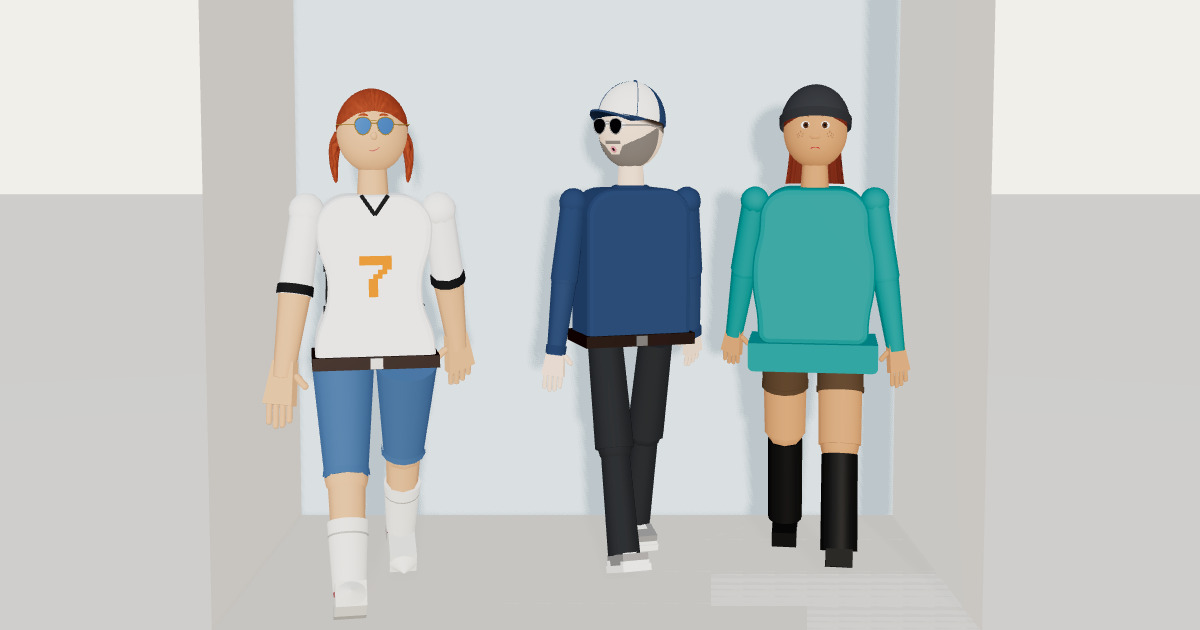
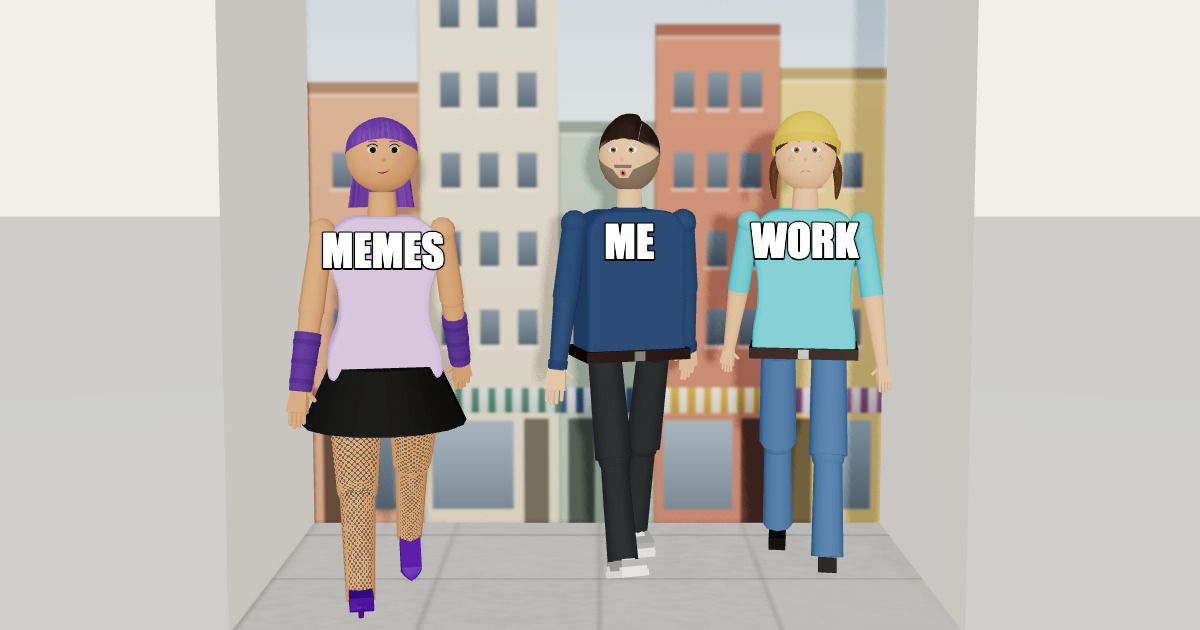
rc1

diff --git a/www/shared/js/promo-1.0.0.min.js b/www/shared/js/promo-1.0.0.min.js
@@ -1,1 +1,1 @@
-export const EXPERIENCES=Object.freeze([{slug:"meme",category:"worlds",title:"Meme Studio",line:"Put yourself in the meme",art:"/meme/assets/og-meme.webp?v=1"},{slug:"derby",category:"worlds",title:"Derby Day",line:"A wooden derby car race",art:"/derby/assets/og-derby.webp?v=1"},{slug:"leaves",category:"worlds",title:"Leaf Blower",line:"A leaf blower game in an autumn front yard",art:"/leaves/assets/og-leaves.webp?v=1"},{slug:"office",category:"worlds",title:"Corner Office",line:"A job search tracker in a 3D office",art:"/office/assets/og-office.webp?v=1"},{slug:"tornado",category:"worlds",title:"Tornado Alley",line:"A storm chaser's view of a tornado",art:"/tornado/assets/og-tornado.webp?v=1"},{slug:"xo",category:"worlds",title:"X's and O's",line:"A football game where you call the plays",art:"/xo/assets/og-xo.webp?v=1"},{slug:"garden",category:"worlds",title:"Fractal Garden",line:"A garden you plant and tend yourself",art:"/garden/assets/og-garden.webp?v=3"},{slug:"highwater",category:"worlds",title:"High Water",line:"A study of water and weather",art:"/highwater/assets/og-highwater.webp?v=1"},{slug:"earthdefense",category:"worlds",title:"Earth Defense",line:"Built for the joy of flying through space",art:"/earthdefense/assets/og-earthdefense.webp?v=2"},{slug:"mandelbrot",category:"worlds",title:"The Mandelbrot Set",line:"For Benoit Mandelbrot",art:"/mandelbrot/assets/og-mandelbrot.webp"},{slug:"steve",category:"worlds",title:"Steve's Home Office",line:"Where SceneXP gets built",art:"/steve/assets/og-steve.webp"},{slug:"whitestone",category:"business",title:"Whitestone Home Care",line:"A concept for a home cleaning company",art:"/whitestone/assets/og-whitestone.webp?v=1"},{slug:"automan",category:"business",title:"John Walker, The Auto Man",line:"For a car buying advocate",art:"/automan/assets/card-automan.webp?v=1"},{slug:"interstate",category:"business",title:"The Interstate Tire Shop",line:"For a neighborhood tire shop",art:"/interstate/assets/og-interstate.webp"},{slug:"seedtoseed",category:"business",title:"The Seed to Seed Garden",line:"For a gardening business",art:"/seedtoseed/assets/og-seedtoseed.webp"},{slug:"sunnyvalejenn",category:"business",title:"Sunnyvale Jenn Consulting",line:"For a small business operations consultant",art:"/sunnyvalejenn/assets/og-sunnyvalejenn.webp?v=1"},{slug:"jamar",category:"personal",title:"Jamar's Karaoke Night",line:"Happy Birthday, Jamar!",art:"/jamar/assets/og-jamar.webp"},{slug:"gavin",category:"personal",title:"Gavin's Bug Patrol",line:"For Gavin, age eleven",art:"/gavin/assets/og-gavin.webp"},{slug:"roqui",category:"personal",title:"Zumba with Roqui",line:"For a wonderful instructor",art:"/roqui/assets/og-roqui.webp"},{slug:"family",category:"personal",title:"Putt Putt with Mom and Dad",line:"For a family summer memory",art:"/family/assets/og-family.webp"},{slug:"dad",category:"personal",title:"A Ride on the NCR Trail",line:"In memory of a dad",art:"/dad/assets/og-dad.webp"}]),PAIRS=Object.freeze({xo:"earthdefense",earthdefense:"xo",leaves:"xo",meme:"xo",mandelbrot:"garden",garden:"mandelbrot"});export function experience(e){return EXPERIENCES.find(o=>o.slug===e)||null}export function nextSlug(e){const o=PAIRS[e];if(o&&experience(o))return o;const r=experience(e);if(!r)return null;const t=EXPERIENCES.filter(a=>a.category===r.category);if(t.length<2)return null;const n=t.findIndex(a=>a.slug===e);return t[(n+1)%t.length].slug}export function nextExperience(e){return experience(nextSlug(e))}export function createPromoCard(e,{eyebrow:o="Next on SceneXP",doc:r=null,entry:t=null}={}){const n=r||(typeof document<"u"?document:null);if(!n||typeof n.createElement!="function")return null;const a=t||nextExperience(e);if(!a)return null;const l=n.createElement("a");l.className="promo-card",l.href=a.href||`/${a.slug}/`,l.dataset.slug=a.slug;const s=n.createElement("img");s.className="promo-art",s.src=a.art,s.alt="",s.loading="lazy",s.decoding="async",s.width=1200,s.height=630,l.appendChild(s);const i=n.createElement("span");i.className="promo-body";const d=n.createElement("span");d.className="promo-eyebrow",d.textContent=o,i.appendChild(d);const c=n.createElement("span");c.className="promo-title",c.textContent=a.title,i.appendChild(c);const g=n.createElement("span");return g.className="promo-line",g.textContent=a.line,i.appendChild(g),l.appendChild(i),l}export function createDirectoryLink({text:e="More 3D worlds to explore at SceneXP.com",doc:o=null}={}){const r=o||(typeof document<"u"?document:null);if(!r||typeof r.createElement!="function")return null;const t=r.createElement("a");return t.className="welcome-explore promo-explore",t.href="/",t.textContent=e,t}
+export const EXPERIENCES=Object.freeze([{slug:"meme",category:"worlds",title:"Meme Studio",line:"Put yourself in the meme",art:"/meme/assets/og-meme.webp?v=2"},{slug:"derby",category:"worlds",title:"Derby Day",line:"A wooden derby car race",art:"/derby/assets/og-derby.webp?v=1"},{slug:"leaves",category:"worlds",title:"Leaf Blower",line:"A leaf blower game in an autumn front yard",art:"/leaves/assets/og-leaves.webp?v=1"},{slug:"office",category:"worlds",title:"Corner Office",line:"A job search tracker in a 3D office",art:"/office/assets/og-office.webp?v=1"},{slug:"tornado",category:"worlds",title:"Tornado Alley",line:"A storm chaser's view of a tornado",art:"/tornado/assets/og-tornado.webp?v=1"},{slug:"xo",category:"worlds",title:"X's and O's",line:"A football game where you call the plays",art:"/xo/assets/og-xo.webp?v=1"},{slug:"garden",category:"worlds",title:"Fractal Garden",line:"A garden you plant and tend yourself",art:"/garden/assets/og-garden.webp?v=3"},{slug:"highwater",category:"worlds",title:"High Water",line:"A study of water and weather",art:"/highwater/assets/og-highwater.webp?v=1"},{slug:"earthdefense",category:"worlds",title:"Earth Defense",line:"Built for the joy of flying through space",art:"/earthdefense/assets/og-earthdefense.webp?v=2"},{slug:"mandelbrot",category:"worlds",title:"The Mandelbrot Set",line:"For Benoit Mandelbrot",art:"/mandelbrot/assets/og-mandelbrot.webp"},{slug:"steve",category:"worlds",title:"Steve's Home Office",line:"Where SceneXP gets built",art:"/steve/assets/og-steve.webp"},{slug:"whitestone",category:"business",title:"Whitestone Home Care",line:"A concept for a home cleaning company",art:"/whitestone/assets/og-whitestone.webp?v=1"},{slug:"automan",category:"business",title:"John Walker, The Auto Man",line:"For a car buying advocate",art:"/automan/assets/card-automan.webp?v=1"},{slug:"interstate",category:"business",title:"The Interstate Tire Shop",line:"For a neighborhood tire shop",art:"/interstate/assets/og-interstate.webp"},{slug:"seedtoseed",category:"business",title:"The Seed to Seed Garden",line:"For a gardening business",art:"/seedtoseed/assets/og-seedtoseed.webp"},{slug:"sunnyvalejenn",category:"business",title:"Sunnyvale Jenn Consulting",line:"For a small business operations consultant",art:"/sunnyvalejenn/assets/og-sunnyvalejenn.webp?v=1"},{slug:"jamar",category:"personal",title:"Jamar's Karaoke Night",line:"Happy Birthday, Jamar!",art:"/jamar/assets/og-jamar.webp"},{slug:"gavin",category:"personal",title:"Gavin's Bug Patrol",line:"For Gavin, age eleven",art:"/gavin/assets/og-gavin.webp"},{slug:"roqui",category:"personal",title:"Zumba with Roqui",line:"For a wonderful instructor",art:"/roqui/assets/og-roqui.webp"},{slug:"family",category:"personal",title:"Putt Putt with Mom and Dad",line:"For a family summer memory",art:"/family/assets/og-family.webp"},{slug:"dad",category:"personal",title:"A Ride on the NCR Trail",line:"In memory of a dad",art:"/dad/assets/og-dad.webp"}]),PAIRS=Object.freeze({xo:"earthdefense",earthdefense:"xo",leaves:"xo",meme:"xo",mandelbrot:"garden",garden:"mandelbrot"});export function experience(e){return EXPERIENCES.find(o=>o.slug===e)||null}export function nextSlug(e){const o=PAIRS[e];if(o&&experience(o))return o;const r=experience(e);if(!r)return null;const t=EXPERIENCES.filter(a=>a.category===r.category);if(t.length<2)return null;const n=t.findIndex(a=>a.slug===e);return t[(n+1)%t.length].slug}export function nextExperience(e){return experience(nextSlug(e))}export function createPromoCard(e,{eyebrow:o="Next on SceneXP",doc:r=null,entry:t=null}={}){const n=r||(typeof document<"u"?document:null);if(!n||typeof n.createElement!="function")return null;const a=t||nextExperience(e);if(!a)return null;const l=n.createElement("a");l.className="promo-card",l.href=a.href||`/${a.slug}/`,l.dataset.slug=a.slug;const s=n.createElement("img");s.className="promo-art",s.src=a.art,s.alt="",s.loading="lazy",s.decoding="async",s.width=1200,s.height=630,l.appendChild(s);const i=n.createElement("span");i.className="promo-body";const d=n.createElement("span");d.className="promo-eyebrow",d.textContent=o,i.appendChild(d);const c=n.createElement("span");c.className="promo-title",c.textContent=a.title,i.appendChild(c);const g=n.createElement("span");return g.className="promo-line",g.textContent=a.line,i.appendChild(g),l.appendChild(i),l}export function createDirectoryLink({text:e="More 3D worlds to explore at SceneXP.com",doc:o=null}={}){const r=o||(typeof document<"u"?document:null);if(!r||typeof r.createElement!="function")return null;const t=r.createElement("a");return t.className="welcome-explore promo-explore",t.href="/",t.textContent=e,t}

diff --git a/www/meme/index.html b/www/meme/index.html
@@ -32,26 +32,30 @@
     <meta property="og:site_name" content="SceneXP">
     <meta property="og:url" content="https://www.scenexp.com/meme/">
     <meta property="og:locale" content="en_US">
-    <!-- THE SOCIAL CARD (M7, 2026-10-28): Steve's screenshot of three
-         figures walking out of a box, converted by the house recipe (the
-         Apple display profile applied, then stripped, 1200x630, JPEG q92 at
-         4:4:4 with a WebP twin at q92 with sharp_yuv). The curve was steep
-         (JPEG 0.77, 0.66 and 0.49% RMSE at q80, 86 and 92), so q92 stood.
+    <!-- THE SOCIAL CARD (M8 recapture, 2026-10-28, ?v=2): Steve's
+         screenshot of The Head Turn on its painted city block, captioned
+         MEMES, ME and WORK, converted by the house recipe (the Apple display
+         profile applied, then stripped, which a bare strip would miss by
+         2.89% RMSE; the screenshot's all-opaque alpha removed; 1200x630,
+         JPEG q92 at 4:4:4 with a WebP twin at q92 with sharp_yuv). The curve
+         was steep (JPEG 0.93, 0.78 and 0.58% RMSE at q80, 86 and 92), so q92
+         stood, 102 KB; sharp_yuv earned its 1.3 KB on the purple hair and
+         the MEMES caption (1.77 against 1.99%, 1.02 against 1.14%), 48 KB.
          JPEG, not WebP (LinkedIn previews no WebP), and exactly one
          og:image. og:image:alt describes THIS picture, so it is rewritten
          with the card. tests/page-rules.test.mjs opens the file. -->
-    <meta property="og:image" content="https://www.scenexp.com/meme/assets/og-meme.jpg?v=1">
+    <meta property="og:image" content="https://www.scenexp.com/meme/assets/og-meme.jpg?v=2">
     <meta property="og:image:type" content="image/jpeg">
     <meta property="og:image:width" content="1200">
     <meta property="og:image:height" content="630">
-    <meta property="og:image:alt" content="Three 3D figures walk toward the camera out of a pale gray box: one with red pigtails, round blue glasses and a white number 7 jersey, one in a white and navy cap, dark glasses, a short gray beard and a navy sweater, mouth open in surprise, and one in a dark beanie and a teal hoodie, frowning.">
+    <meta property="og:image:alt" content="A 3D meme on a painted city street: three figures walk toward the camera on a sidewalk, each labeled in white meme letters. MEMES, on the left, has a purple bob, a lilac top, a black mini skirt and fishnet tights. ME, in the middle, has a beard and a navy sweater and glances toward MEMES with an open mouth. WORK, on the right, frowns in a yellow beanie and a teal T-shirt.">
 
     <!-- Twitter / X -->
     <meta name="twitter:card" content="summary_large_image">
     <meta name="twitter:title" content="Meme Studio">
     <meta name="twitter:description" content="Put yourself in the meme. Your SceneXP avatar stars in a 3D meme you caption and share.">
-    <meta name="twitter:image" content="https://www.scenexp.com/meme/assets/og-meme.jpg?v=1">
-    <meta name="twitter:image:alt" content="Three 3D figures walk toward the camera out of a pale gray box: one with red pigtails, round blue glasses and a white number 7 jersey, one in a white and navy cap, dark glasses, a short gray beard and a navy sweater, mouth open in surprise, and one in a dark beanie and a teal hoodie, frowning.">
+    <meta name="twitter:image" content="https://www.scenexp.com/meme/assets/og-meme.jpg?v=2">
+    <meta name="twitter:image:alt" content="A 3D meme on a painted city street: three figures walk toward the camera on a sidewalk, each labeled in white meme letters. MEMES, on the left, has a purple bob, a lilac top, a black mini skirt and fishnet tights. ME, in the middle, has a beard and a navy sweater and glances toward MEMES with an open mouth. WORK, on the right, frowns in a yellow beanie and a teal T-shirt.">
 
     <!-- Structured data: a web application that is part of SceneXP.
          JSON-LD is a data block (not executed), so it is allowed under the CSP.
@@ -65,8 +69,8 @@
       "url": "https://www.scenexp.com/meme/",
       "name": "Meme Studio",
       "datePublished": "2026-10-28",
-      "image": "https://www.scenexp.com/meme/assets/og-meme.jpg?v=1",
-      "description": "A browser-based 3D meme generator for SceneXP. The visitor's own avatar stars in a meme laid out as a grid of small lit 3D boxes, one for each panel. Choose a template, type a caption for each panel, add a friend's avatar, and share the result as a picture or as a link the friend can open and remix with their own avatar. Everything is made on the visitor's own device and nothing is uploaded.",
+      "image": "https://www.scenexp.com/meme/assets/og-meme.jpg?v=2",
+      "description": "A browser-based 3D meme generator for SceneXP. The visitor's own avatar stars in a meme laid out as a grid of small lit 3D boxes, one for each panel. Choose a template, type a caption for each panel, add a friend's avatar or dress anyone else in it by hand, and share the result as a picture or as a link the friend can open and remix with their own avatar. Everything is made on the visitor's own device and nothing is uploaded.",
       "applicationCategory": "EntertainmentApplication",
       "operatingSystem": "Any",
       "browserRequirements": "Requires JavaScript. The 3D stage needs WebGL 2.",

diff --git a/www/index.html b/www/index.html
@@ -394,8 +394,8 @@
                         <li class="spotlight-slide is-active" data-slug="meme" aria-roledescription="slide" aria-label="1 of 4">
                             <a href="/meme/">
                                 <div class="spotlight-media">
-                                    <img src="/meme/assets/og-meme.webp?v=1" width="1200" height="630" loading="eager" fetchpriority="high" decoding="async"
-                                        alt="Three 3D figures walk toward the camera out of a pale gray box: one with red pigtails, round blue glasses and a white number 7 jersey, one in a white and navy cap, dark glasses, a short gray beard and a navy sweater, mouth open in surprise, and one in a dark beanie and a teal hoodie, frowning.">
+                                    <img src="/meme/assets/og-meme.webp?v=2" width="1200" height="630" loading="eager" fetchpriority="high" decoding="async"
+                                        alt="A 3D meme on a painted city street: three figures walk toward the camera on a sidewalk, each labeled in white meme letters. MEMES, on the left, has a purple bob, a lilac top, a black mini skirt and fishnet tights. ME, in the middle, has a beard and a navy sweater and glances toward MEMES with an open mouth. WORK, on the right, frowns in a yellow beanie and a teal T-shirt.">
                                 </div>
                                 <div class="spotlight-body">
                                     <p class="spotlight-date">Released <time datetime="2026-10-28">October 28, 2026</time></p>
@@ -481,8 +481,8 @@
                     <ul class="experience-grid">
                         <li class="experience-card" data-slug="meme">
                             <a href="/meme/">
-                                <img src="/meme/assets/og-meme.webp?v=1" width="1200" height="630" loading="lazy" decoding="async"
-                                    alt="Three 3D figures walk toward the camera out of a pale gray box: one with red pigtails, round blue glasses and a white number 7 jersey, one in a white and navy cap, dark glasses, a short gray beard and a navy sweater, mouth open in surprise, and one in a dark beanie and a teal hoodie, frowning.">
+                                <img src="/meme/assets/og-meme.webp?v=2" width="1200" height="630" loading="lazy" decoding="async"
+                                    alt="A 3D meme on a painted city street: three figures walk toward the camera on a sidewalk, each labeled in white meme letters. MEMES, on the left, has a purple bob, a lilac top, a black mini skirt and fishnet tights. ME, in the middle, has a beard and a navy sweater and glances toward MEMES with an open mouth. WORK, on the right, frowns in a yellow beanie and a teal T-shirt.">
                                 <div class="experience-card-body">
                                     <p class="experience-eyebrow">Put yourself in the meme</p>
                                     <h3>Meme Studio</h3>

diff --git a/www/shared/js/promo-1.0.0.js b/www/shared/js/promo-1.0.0.js
@@ -50,7 +50,7 @@
  *  `art` carries the home page's own cache-busting query string verbatim, so a
  *  visitor who has seen the directory already has the file. */
 export const EXPERIENCES = Object.freeze([
-    { slug: 'meme', category: 'worlds', title: 'Meme Studio', line: 'Put yourself in the meme', art: '/meme/assets/og-meme.webp?v=1' },
+    { slug: 'meme', category: 'worlds', title: 'Meme Studio', line: 'Put yourself in the meme', art: '/meme/assets/og-meme.webp?v=2' },
     { slug: 'derby', category: 'worlds', title: 'Derby Day', line: 'A wooden derby car race', art: '/derby/assets/og-derby.webp?v=1' },
     { slug: 'leaves', category: 'worlds', title: 'Leaf Blower', line: 'A leaf blower game in an autumn front yard', art: '/leaves/assets/og-leaves.webp?v=1' },
     { slug: 'office', category: 'worlds', title: 'Corner Office', line: 'A job search tracker in a 3D office', art: '/office/assets/og-office.webp?v=1' },
